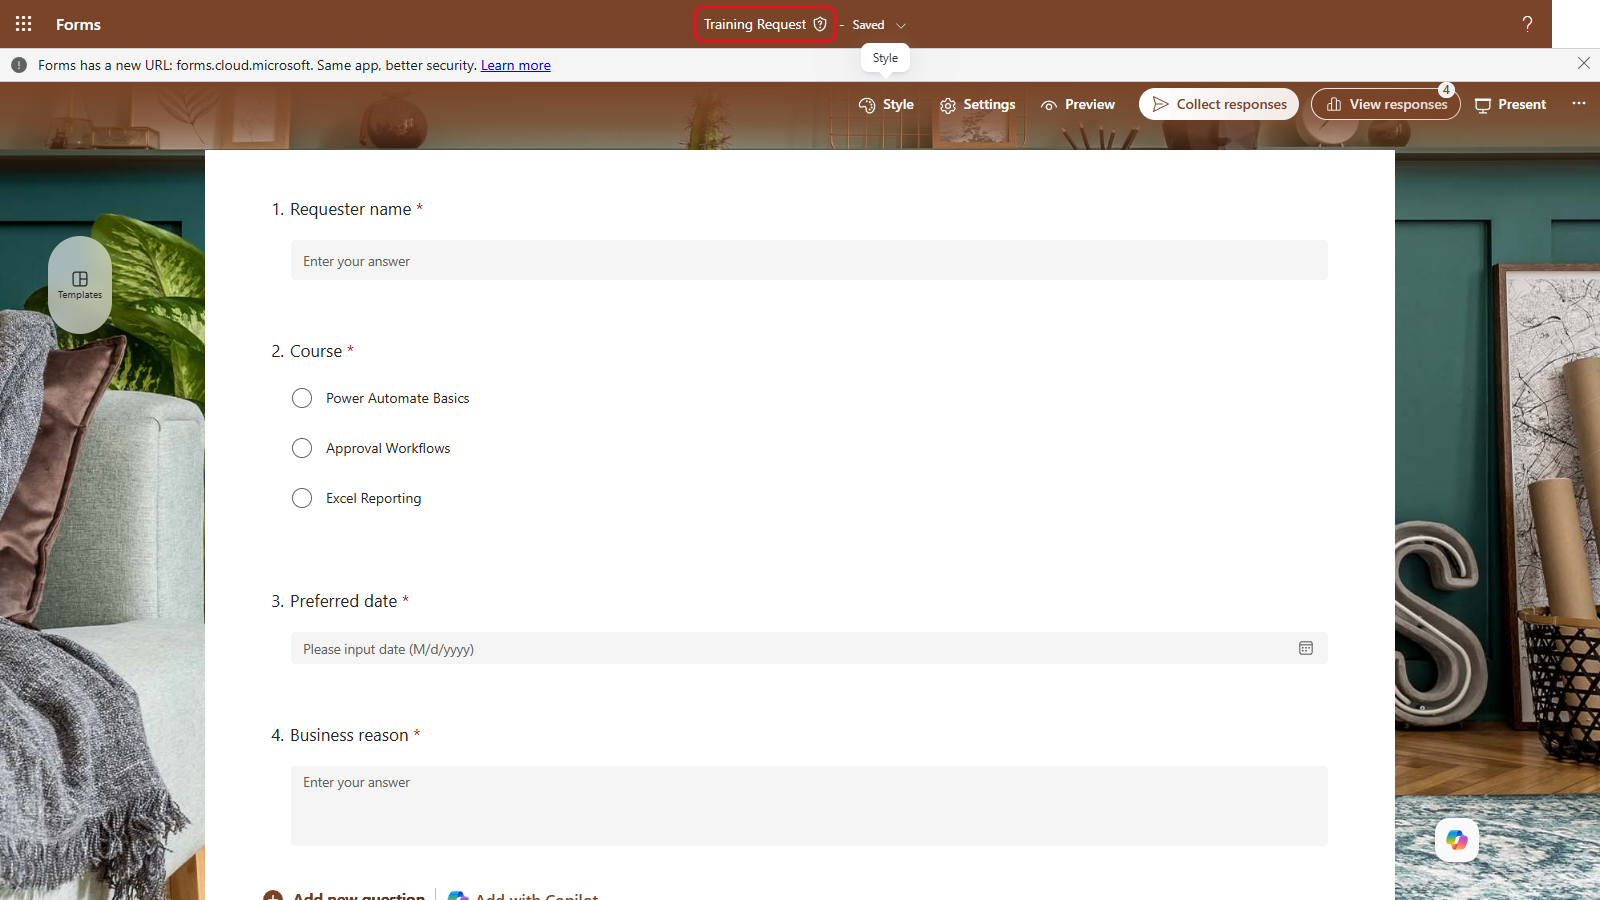
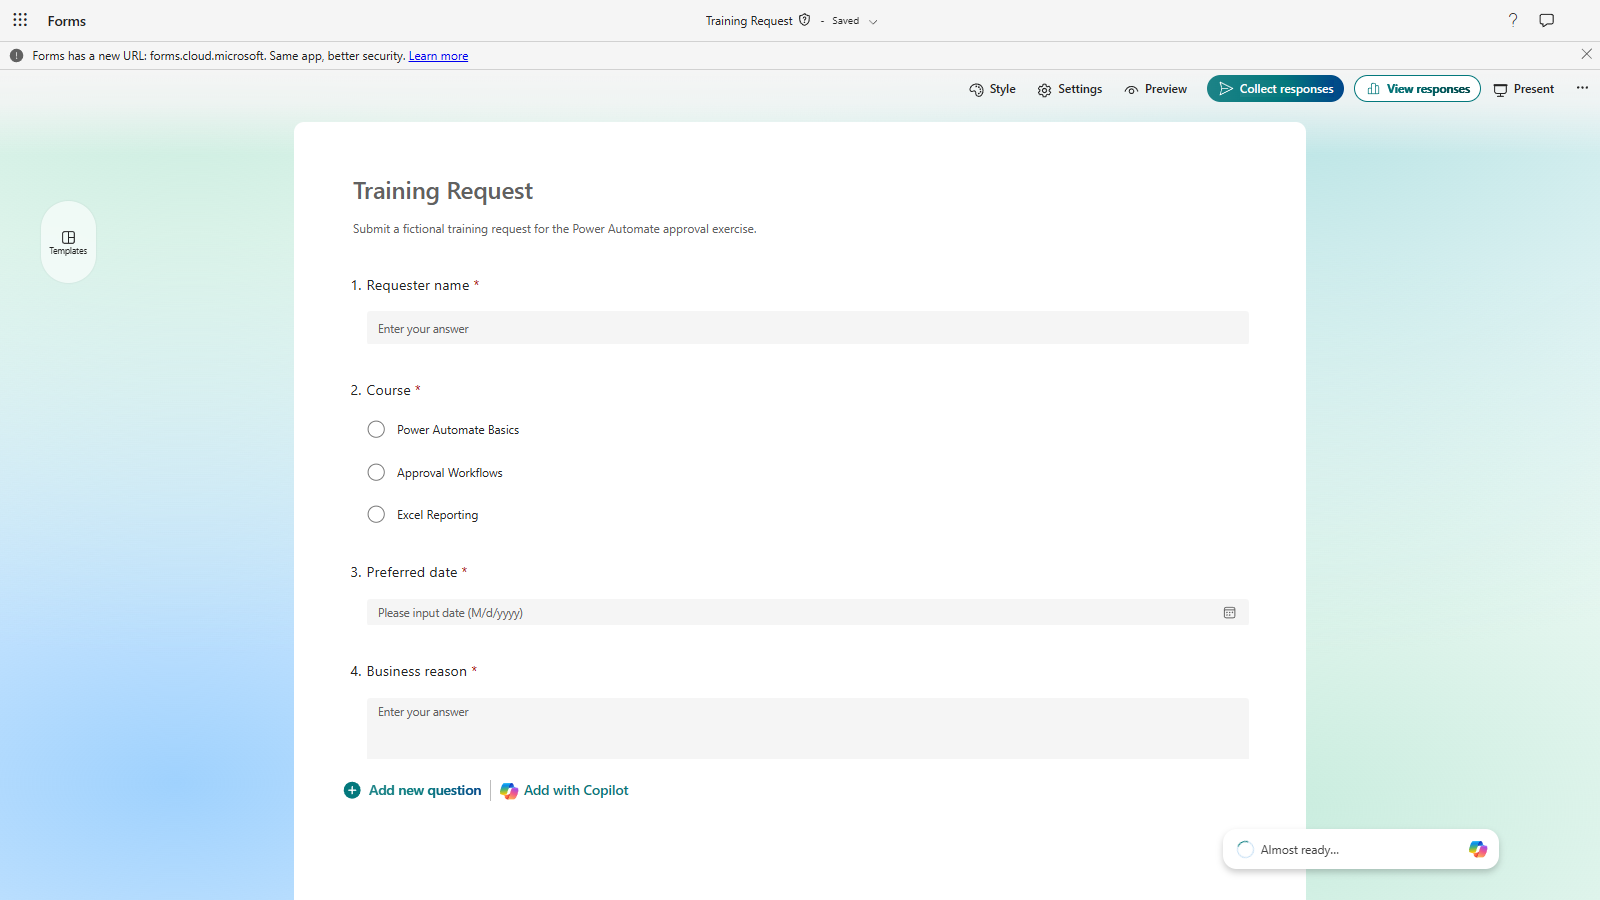
Add Chapter 6 form screenshots (round 7)

diff --git a/_design/shots/NOTES.md b/_design/shots/NOTES.md
@@ -46,3 +46,7 @@
 - Round six, 06-03-so-far.png and 06-04-so-far.png: the Form Id dropdown lists two Training Request forms with internal IDs; selected the same form used by the existing training approval flow.
 - Round six, condition checkpoints: the editor retains an empty comparison placeholder that reappears after Delete; the SessionDate expressions display as items(...) chips rather than SessionDate.
 - Round six, 11-b-so-far.png and 11-d-so-far.png: recipient lookup returned no suggestion; accepted the signed-in address as a custom value and masked it.
+
+- Round seven, Forms: the app redirects to forms.cloud.microsoft and opens a Draft with Copilot pane; closed the pane. Before the first question, the question-type picker is labelled Quick start with instead of Add new question.
+- Round seven, 06-01-form.png: used 85% display zoom to fit all four required questions in the 1600x900 viewport; kept the default theme.
+- Round seven, Forms cleanup: Delete is available under My forms; Recent offers Remove from Recent instead. Deleted only the form created for these captures and preserved the older Training Request form.
